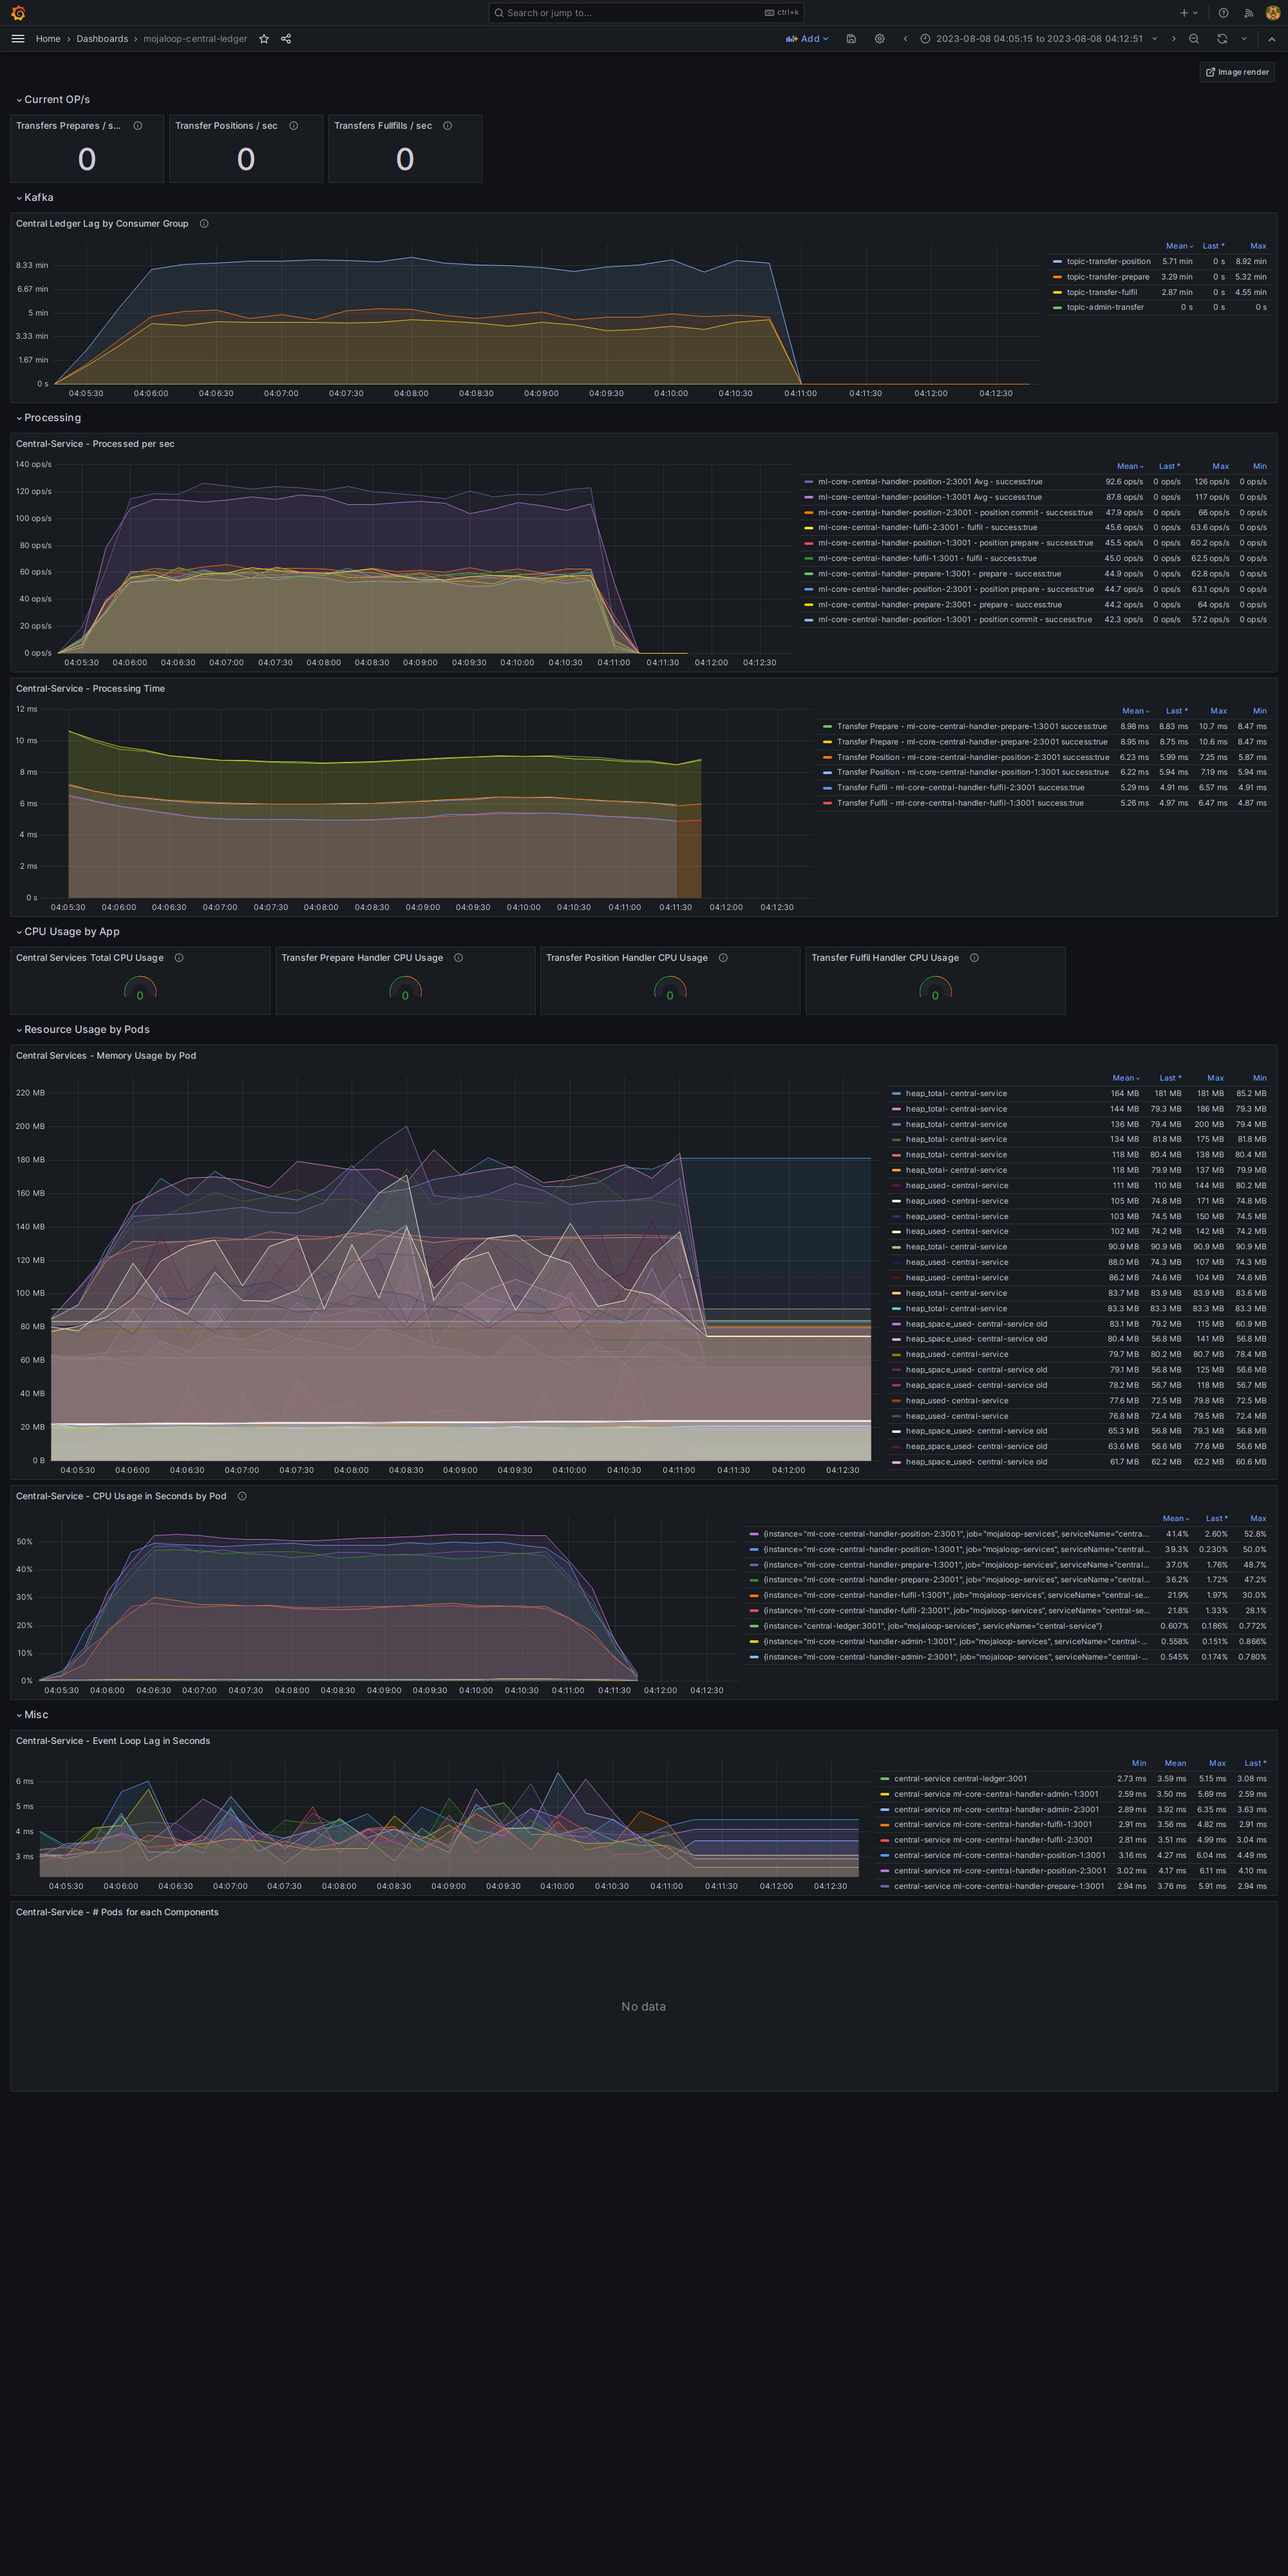
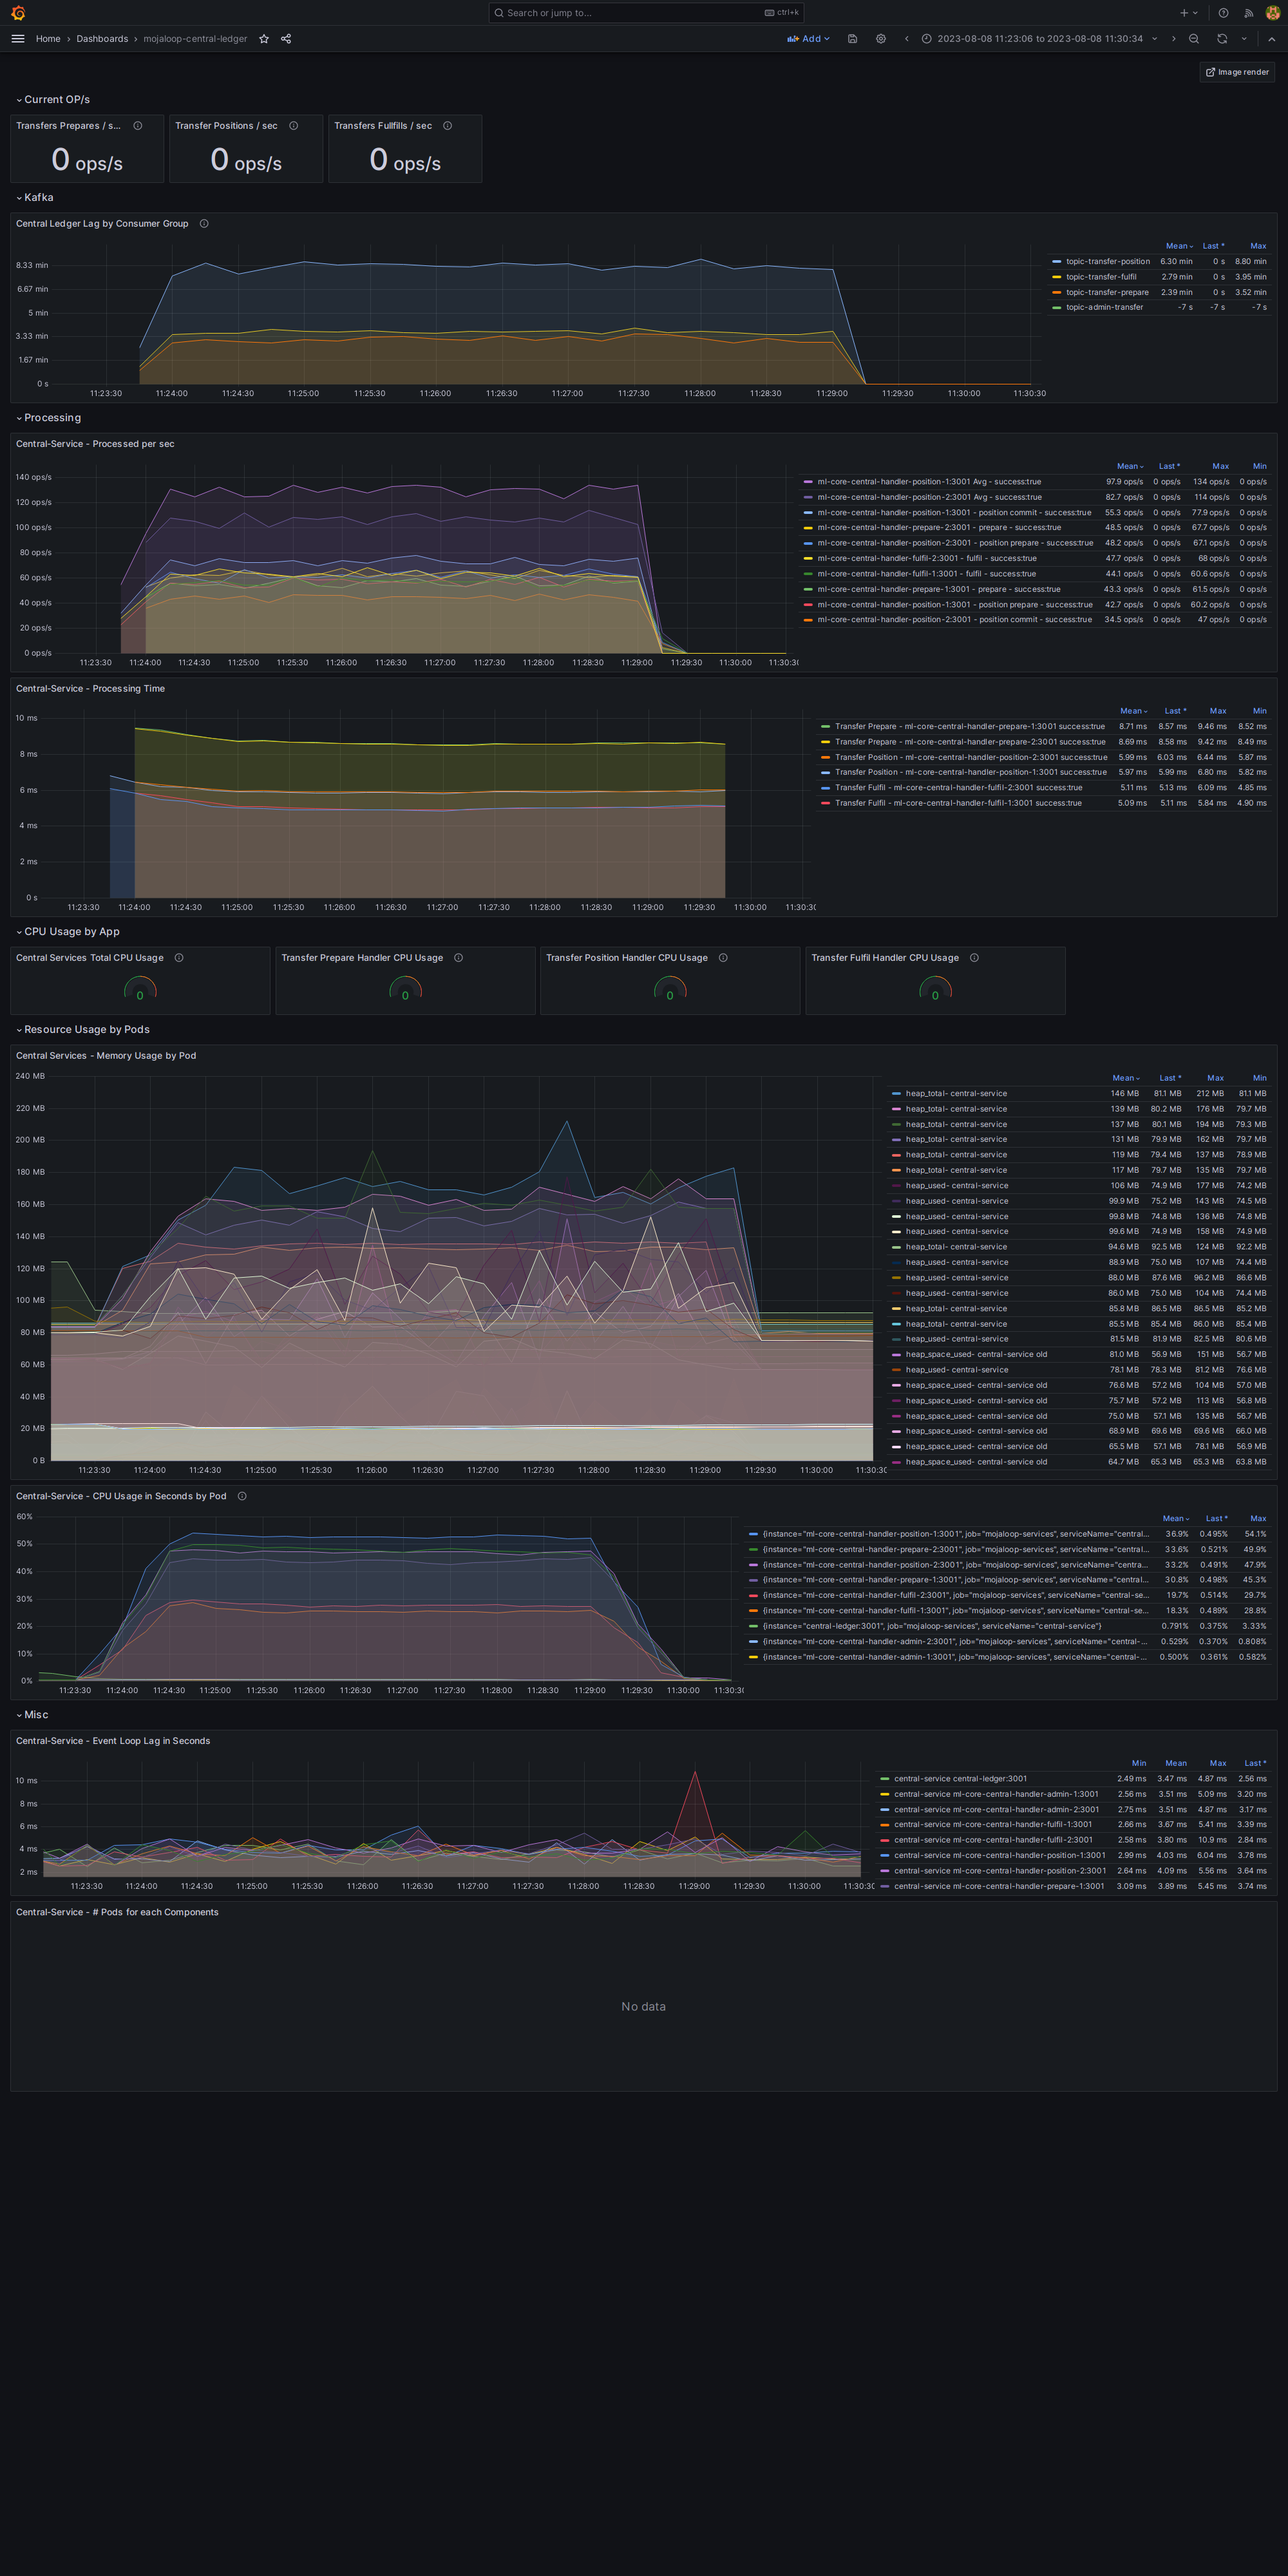
some changes

diff --git a/fspiop-transfers/README.md b/fspiop-transfers/README.md
@@ -37,7 +37,7 @@ Scenario | Description | Test-Case | Repeatable (Y/N) | K6 Test Scenario / Confi
  8 | FSPIOP Transfers POST /transfers with MLAPI & CL + Unidirectional - scale:2, k6vu:MAX | 1 | Y | fspiopTransfers | .
  9 | FSPIOP Transfers POST /transfers with MLAPI & CL - scale:2, k6vu:1, dfsps:4 | 1 | Y | fspiopTransfers | .
  10 | FSPIOP Transfers POST /transfers with MLAPI & CL - scale:2, k6vu:MAX, dfsps:4 | 1 | Y | fspiopTransfers | .
- 11 | FSPIOP Transfers POST /transfers with MLAPI & CL - scale:2, k6vu:MAX, dfsps:8 | 1 | Y | fspiopTransfers | .
+ 11 | FSPIOP Transfers POST /transfers with MLAPI & CL - scale:2, k6vu:MAX, dfsps:8, partitions: 17 | 1 | Y | fspiopTransfers | .
  12 | FSPIOP Transfers POST /transfers with MLAPI & CL with mocked central-admin-api + No Logs/Event-Audits - scale:2, k6vu:MAX | 1 | Y | fspiopTransfers | .
  13 | FSPIOP Transfers POST /transfers with MLAPI & CL with mocked central-admin-api + No Logs/Event-Audits + UV_THREADPOOL_SCALE - scale:2, k6vu:MAX | 1 | Y | fspiopTransfers | .
  14 | FSPIOP Transfers POST /transfers with MLAPI & CL with mocked central-admin-api + No Logs/Event-Audits + UV_THREADPOOL_SCALE - scale:2, k6vu:MAX | 1 | Y | fspiopTransfers | .

diff --git a/fspiop-transfers/20230807/s11-1691467517291/README.md b/fspiop-transfers/20230807/s11-1691467517291/README.md
@@ -1,8 +1,8 @@
 # Scenario 11: FSPIOP Transfers POST /transfers with MLAPI & CL - scale:2, k6vu:MAX, dfsps:8 | 1 | Y | fspiopTransfers
 
 ```conf
-var-testid=1691467517291
-params=&var-testid=1691467517291&from=1691467515034&to=1691467971061
+var-testid=1691493807211
+params=&var-testid=1691493807211&from=1691493786387&to=1691494234898
 
 ## Added for Test Scenario 6
 Scale CL handlers to 2
@@ -10,6 +10,7 @@ Scale ML API and ML Notification handler to 2
 Scale kafka partitions to 2
 ## Add for Test scenario 11
 Random transfers between pool of 8 DFSPs
+Increased kafka partitions to 17
 ```
 
 ```
@@ -50,7 +51,7 @@ docker compose --project-name ml-core -f docker-compose-perf.yml --profile trans
 
 ## Observations
 
-- At 118 ops/s there is no increase in performance with a random pool with 8 dfsps.
+- Got 120 ops/s, there is no increase in performance with a random pool with 8 dfsps and 17 kafka partitions. But observed the load is evenly distributed on position handler instances.
 
 ## Recommendations
 

diff --git a/fspiop-transfers/20230807/s6-1691459957300/README.md b/fspiop-transfers/20230807/s6-1691459957300/README.md
@@ -50,6 +50,8 @@ docker compose --project-name ml-core -f docker-compose-perf.yml --profile trans
 
 - Scaling to 2 did not provide linear scaling of ops/s. Attempt of 12 vu's lead to a bottle neck of 125 ops/s.
   10 vu's resulted in 118 ops/s. For reference, in scenario #4 the system managed 87 ops/s with a maximum of 6 vu's.
+- Despite linear scaling, the ops/sec increase is not bad from 87 to 125 and iteration duration is also not affected with the increased load which is a positive sign.
+- The load distribution went well between 2 random dfsps, that means both the position handler instances might be used evenly.
 
 ## Recommendations
 

diff --git a/fspiop-transfers/20230807/s8-1691464806426/README.md b/fspiop-transfers/20230807/s8-1691464806426/README.md
@@ -52,6 +52,7 @@ docker compose --project-name ml-core -f docker-compose-perf.yml --profile trans
 ## Observations
 
 - At 115 ops/s it performed slightly worse than a random pool with 2 dfsps.
+- It might be because, with unidirectional only one position handler will be used all the time as the destination DFSPID is always same.
 
 ## Recommendations
 
